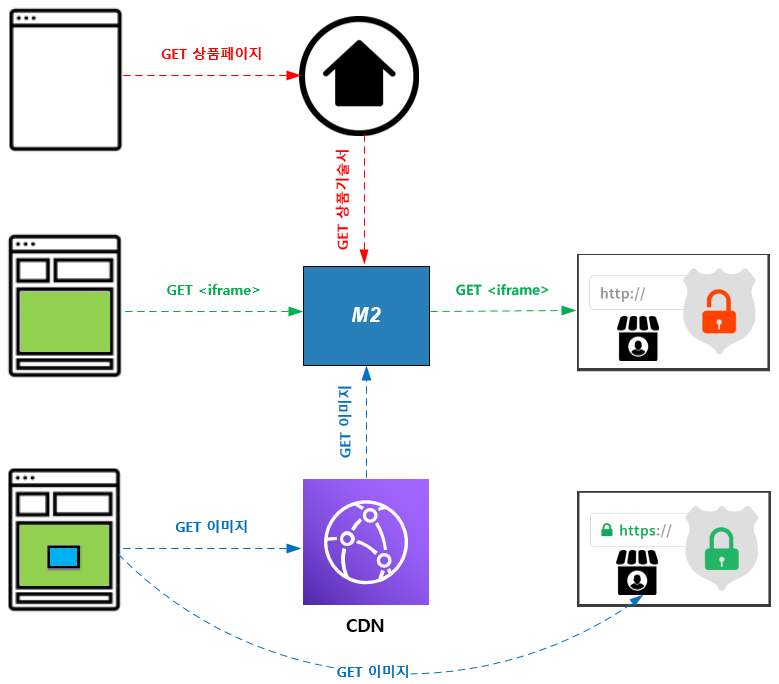
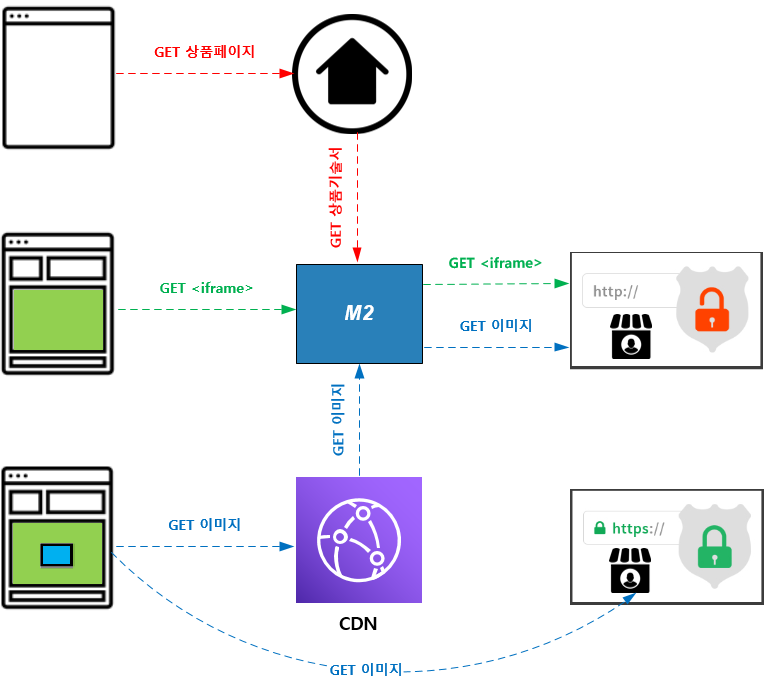
1
1

diff --git a/guide/prditem.rst b/guide/prditem.rst
@@ -196,13 +196,13 @@ JSON
    :align: center
 
 
-1.  [메인 트래픽] 브라우저가 상품페이지를 웹서버로 요청한다.
-    웹서버는 ``M2`` 로부터 "수정된" 상품기술서를 받아 웹페이지에 삽입한다.
+1.  ``메인 트래픽(Red)`` 브라우저가 상품페이지를 <Web Server>로 요청한다.
+    <Web Server>는 <M2> 로부터 "수정된" 상품기술서를 받아 웹페이지에 삽입한다.
 
-2.  [리바운드 트래픽] 브라우저는 상품기술서 안에서 참조하는 document( ``css`` , ``js`` , ``<iframe>`` 등)를 ``M2``로 요청한다.
+2.  ``리바운드 트래픽(Green)`` 브라우저는 상품기술서 안에서 참조하는 document( ``css`` , ``js`` , ``<iframe>`` 등)를 <M2> 로 요청한다.
 
-3.  [리소스 트래픽] 브라우저는 상품기술서 안에서 참조하는 이미지를 CDN 또는 HTTPS를 지원하는 셀러 사이트로 요청한다.
-    CDN은 ``M2`` 를 원본서버로 바라본다.
+3.  ``리소스 트래픽(Blue)`` 브라우저는 상품기술서 안에서 참조하는 이미지를 <CDN> 또는 <HTTPS를 지원하는 셀러 사이트>로 요청한다.
+    <CDN>은 <M2> 를 원본서버로 바라본다.
 
 
 .. note::
